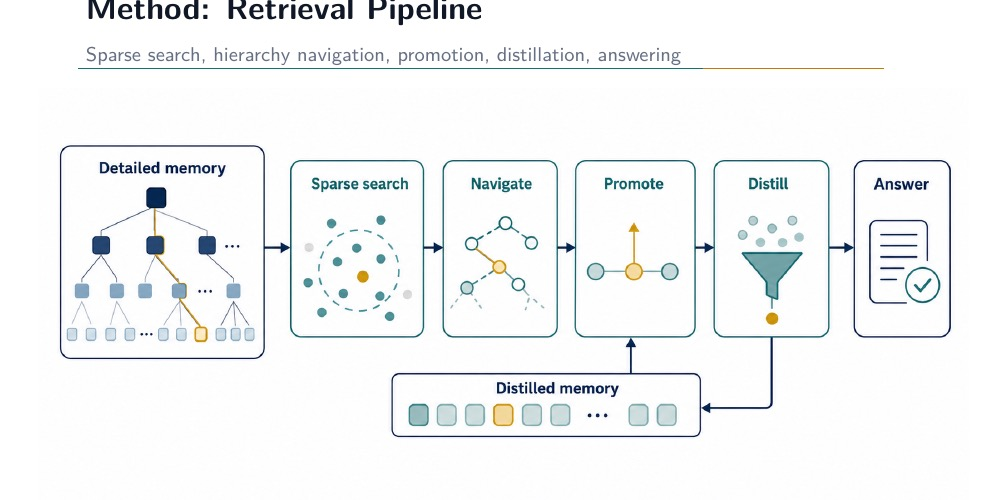
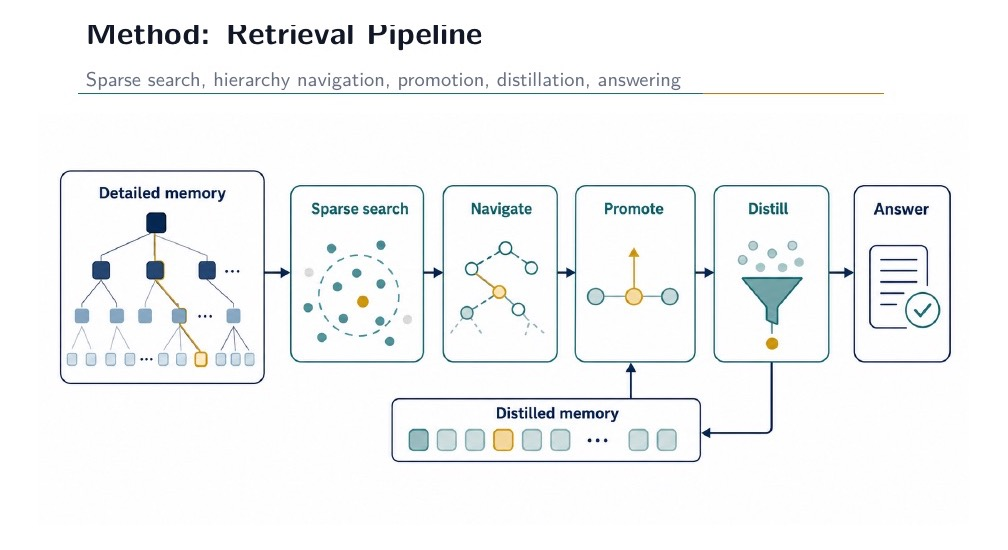
Generalize API configuration and fix README hero image

diff --git a/memloop/core/api_adapter.py b/memloop/core/api_adapter.py
@@ -2,8 +2,9 @@
 Multi-model API adapter for MemLoop.
 
 Provides a single `call(alias, messages, max_tokens, temperature)` interface
-across six provider aliases:
+across the default OpenAI-compatible gateway and optional provider aliases:
 
+    general  -> OpenAI-compatible chat endpoint from MEMLOOP_API_* env vars
     mini      -> Azure OpenAI gpt-4o-mini
     standard  -> Azure OpenAI gpt-4o
     complex   -> AWS Bedrock claude-opus-4-8 (us.anthropic.claude-opus-4-8)
@@ -139,7 +140,7 @@ def estimate_cost(model: str, input_tokens: int, output_tokens: int) -> float:
 @dataclass(frozen=True)
 class AliasConfig:
     alias: str
-    provider: str  # "azure" | "bedrock" | "bedrock_responses"
+    provider: str  # "openai_compatible" | "azure" | "bedrock" | "bedrock_responses"
     model: str     # model id (azure deployment name OR bedrock model id)
     # Optional flags for provider-specific quirks.
     # chat_param_quirk values:
@@ -161,6 +162,9 @@ def _require_env(name: str) -> str:
 
 def get_alias_config(alias: str) -> AliasConfig:
     """Resolve provider + model id from env. Does NOT return any secret."""
+    if alias in ("general", "default"):
+        model_id = os.environ.get("MEMLOOP_API_MODEL", "model")
+        return AliasConfig(alias="general", provider="openai_compatible", model=model_id)
     if alias == "mini":
         deployment = _require_env("AZURE_OPENAI_MINI")
         return AliasConfig(alias="mini", provider="azure", model=deployment)
@@ -213,7 +217,8 @@ def get_alias_config(alias: str) -> AliasConfig:
         )
     raise ValueError(
         f"Unknown alias: {alias!r}. Expected one of: "
-        "mini, standard, complex, gpt_large, gpt_5_4, gpt_5_4_mini, gpt_5_5, gpt_5_4_azure"
+        "general, mini, standard, complex, gpt_large, gpt_5_4, "
+        "gpt_5_4_mini, gpt_5_5, gpt_5_4_azure"
     )
 
 
@@ -235,6 +240,42 @@ def _http_post(
 # ---------------------------------------------------------------------------
 # Provider-specific request builders + parsers.
 # ---------------------------------------------------------------------------
+
+
+def _call_openai_compatible(
+    cfg: AliasConfig,
+    messages: List[Dict[str, str]],
+    max_tokens: int,
+    temperature: float,
+    timeout: float,
+) -> Dict[str, Any]:
+    """Call a generic OpenAI-compatible chat completions endpoint."""
+    base_url = _require_env("MEMLOOP_API_BASE_URL").rstrip("/")
+    api_key = _require_env("MEMLOOP_API_KEY")
+    model = os.environ.get("MEMLOOP_API_MODEL", cfg.model)
+    url = f"{base_url}/chat/completions"
+    headers = {
+        "Content-Type": "application/json",
+        "Accept": "application/json",
+        "Authorization": f"Bearer {api_key}",
+    }
+    body: Dict[str, Any] = {
+        "model": model,
+        "messages": messages,
+        "max_tokens": max_tokens,
+        "temperature": temperature,
+    }
+    raw = _http_post(url, headers, body, timeout=timeout)
+    choices = raw.get("choices") or []
+    if not choices:
+        raise RuntimeError("OpenAI-compatible response missing 'choices'")
+    text = choices[0].get("message", {}).get("content", "") or ""
+    usage = raw.get("usage") or {}
+    return {
+        "text": text,
+        "input_tokens": int(usage.get("prompt_tokens", 0)),
+        "output_tokens": int(usage.get("completion_tokens", 0)),
+    }
 
 
 def _call_azure(
@@ -585,7 +626,11 @@ def call(
     for attempt in range(1, max_retries + 1):
         t0 = time.time()
         try:
-            if cfg.provider == "azure":
+            if cfg.provider == "openai_compatible":
+                inner = _call_openai_compatible(
+                    cfg, messages, max_tokens, temperature, timeout
+                )
+            elif cfg.provider == "azure":
                 inner = _call_azure(cfg, messages, max_tokens, temperature, timeout)
             elif cfg.provider == "bedrock":
                 if cfg.alias == "gpt_large":
@@ -676,6 +721,8 @@ def call(
 # provider + model). We exclude them from the leak scan.
 _SECRET_ENV_KEYS = (
     "AZURE_OPENAI_KEY",
+    "MEMLOOP_API_KEY",
+    "MEMLOOP_EMBED_API_KEY",
     "BEDROCK_API_KEY",
     "BEDROCK_MANTLE_API_KEY",
     "OPENAI_API_KEY",
@@ -703,50 +750,22 @@ load_env()
 
 
 if __name__ == "__main__":
-    # Smoke test for the gpt_large alias (Bedrock Converse, openai.gpt-oss-120b-1:0).
-    # Wrapped so missing env vars / network errors do not break other aliases'
-    # independent smoke runs (each alias is self-contained).
-    try:
-        res = call(
-            "gpt_large",
-            [{"role": "user", "content": "Reply with exactly: TEST_PASSED"}],
-            max_tokens=100,
-            temperature=0.0,
-        )
-        assert "TEST_PASSED" in res["text"], f"got: {res['text']!r}"
-        print(
-            f"gpt_large alias works: text={res['text'][:80]!r}, "
-            f"latency={res['latency_ms']:.0f}ms, "
-            f"in={res['usage']['input_tokens']} out={res['usage']['output_tokens']}"
-        )
-    except Exception as e:
-        print(f"gpt_large smoke skipped: {e}")
-
-    # Smoke test for gpt_5_4 (Bedrock Mantle /responses, openai.gpt-5.4).
-    res = call(
-        "gpt_5_4",
-        [{"role": "user", "content": "Reply with exactly: TEST_GPT54"}],
-        max_tokens=100,
-        temperature=0.0,
-    )
-    assert "TEST_GPT54" in res["text"], f"got: {res['text']!r}"
-    print(
-        f"gpt_5_4 alias works: text={res['text'][:80]!r}, "
-        f"latency={res['latency_ms']:.0f}ms "
-        f"in={res['usage']['input_tokens']} out={res['usage']['output_tokens']}"
-    )
-
-    # Smoke test for gpt_5_5 (reasoning model). Larger token budget so the
-    # model has room to emit reasoning tokens AND visible output.
-    res = call(
-        "gpt_5_5",
-        [{"role": "user", "content": "Reply with exactly: TEST_GPT55"}],
-        max_tokens=200,
-        temperature=0.0,
-    )
-    assert "TEST_GPT55" in res["text"], f"got: {res['text']!r}"
-    print(
-        f"gpt_5_5 alias works: text={res['text'][:80]!r}, "
-        f"latency={res['latency_ms']:.0f}ms "
-        f"in={res['usage']['input_tokens']} out={res['usage']['output_tokens']}"
-    )
+    if not os.environ.get("MEMLOOP_API_BASE_URL") or not os.environ.get("MEMLOOP_API_KEY"):
+        print("general smoke skipped: set MEMLOOP_API_BASE_URL and MEMLOOP_API_KEY")
+    else:
+        try:
+            res = call(
+                "general",
+                [{"role": "user", "content": "Reply with exactly: TEST_GENERAL"}],
+                max_tokens=100,
+                temperature=0.0,
+                max_retries=1,
+            )
+            assert "TEST_GENERAL" in res["text"], f"got: {res['text']!r}"
+            print(
+                f"general alias works: text={res['text'][:80]!r}, "
+                f"latency={res['latency_ms']:.0f}ms, "
+                f"in={res['usage']['input_tokens']} out={res['usage']['output_tokens']}"
+            )
+        except Exception as e:
+            print(f"general smoke skipped: {e}")

diff --git a/memloop/eval/evaluate_v5.py b/memloop/eval/evaluate_v5.py
@@ -10,7 +10,7 @@ Per-query metrics:
   recall    = |cited & expected| / max(1, |expected|)
   f1        = 2 P R / (P + R)
 
-LLM score (0..1): gpt_5_4_mini judges the answer 0..5 vs the reference;
+LLM score (0..1): the configured `general` alias judges the answer 0..5 vs the reference;
                   if reference is empty, score based on factuality vs query alone.
 
 Aggregate per (method, tier):
@@ -42,8 +42,8 @@ if REPO_ROOT not in sys.path:
 
 from memloop.core.api_adapter import APIError, call as api_call  # noqa: E402
 
-JUDGE_PRICE_PER_M = {"input": 0.00, "output": 0.00}   # gpt_5_4_mini (cost tracked elsewhere)
-JUDGE_ALIAS = "gpt_5_4_mini"   # 2026-07-13: azure mini throttled, use Bedrock full for judge
+JUDGE_PRICE_PER_M = {"input": 0.00, "output": 0.00}
+JUDGE_ALIAS = "general"
 
 
 JUDGE_SYSTEM = """You are a lenient evaluator scoring whether a model's answer is broadly aligned with the reference.

diff --git a/memloop/runners/run_stream_v5.py b/memloop/runners/run_stream_v5.py
@@ -1792,9 +1792,9 @@ def main() -> int:
     ap.add_argument("--queries", required=True)
     ap.add_argument("--query_order_seed", type=int, default=20260608)
     ap.add_argument("--seed", type=int, default=20260608)
-    ap.add_argument("--alias_answer", default="gpt_5_4")
-    ap.add_argument("--alias_navigator", default="gpt_5_4")
-    ap.add_argument("--alias_low", default="gpt_5_4_mini")
+    ap.add_argument("--alias_answer", default="general")
+    ap.add_argument("--alias_navigator", default="general")
+    ap.add_argument("--alias_low", default="general")
     ap.add_argument("--max_steps", type=int, default=12)
     ap.add_argument("--top_k_distilled", type=int, default=8)
     ap.add_argument("--max_detailed_load", type=int, default=6)

diff --git a/memloop/runners/run_stream_v5_cite_all.py b/memloop/runners/run_stream_v5_cite_all.py
@@ -1329,9 +1329,9 @@ def main() -> int:
     ap.add_argument("--queries", required=True)
     ap.add_argument("--query_order_seed", type=int, default=20260608)
     ap.add_argument("--seed", type=int, default=20260608)
-    ap.add_argument("--alias_answer", default="gpt_5_4")
-    ap.add_argument("--alias_navigator", default="gpt_5_4")
-    ap.add_argument("--alias_low", default="gpt_5_4_mini")
+    ap.add_argument("--alias_answer", default="general")
+    ap.add_argument("--alias_navigator", default="general")
+    ap.add_argument("--alias_low", default="general")
     ap.add_argument("--max_steps", type=int, default=12)
     ap.add_argument("--top_k_distilled", type=int, default=8)
     ap.add_argument("--max_detailed_load", type=int, default=6)

diff --git a/memloop/eval/fix5_extract_citations.py b/memloop/eval/fix5_extract_citations.py
@@ -78,7 +78,7 @@ def extract_one(rec, doc_lookup, cost_tracker):
     messages = [{'role':'system','content':SYSTEM},{'role':'user','content':user}]
     for attempt in range(3):
         try:
-            resp = api_call('gpt_5_4', messages, max_tokens=300, temperature=0.0, timeout=90.0, max_retries=2)
+            resp = api_call("general", messages, max_tokens=300, temperature=0.0, timeout=90.0, max_retries=2)
             text = resp.get('text','').strip()
             usage = resp.get('usage', {})
             in_t = usage.get('input_tokens', 0)

diff --git a/docs/configuration.md b/docs/configuration.md
@@ -16,15 +16,21 @@ directory:
 export MEMLOOP_ENV_FILE=/secure/path/memloop.env
 ```
 
-## Provider Settings
+## API Settings
 
 | Variable | Required for | Notes |
 | --- | --- | --- |
-| `AZURE_OPENAI_ENDPOINT` | Azure LLM calls | Endpoint URL for Azure deployments. |
-| `AZURE_LLM_API_KEY` | Azure LLM calls | Preferred key name for MemLoop. |
-| `AZURE_OPENAI_KEY` | Azure LLM calls | Fallback key name. |
-| `AWS_BEDROCK_API_KEY` | Bedrock response calls | Used by Bedrock-compatible aliases. |
-| `BEDROCK_MODEL_GPT54` | Bedrock response calls | Optional model override. |
+| `MEMLOOP_API_BASE_URL` | Model-backed answering and judging | OpenAI-compatible chat-completions base URL. |
+| `MEMLOOP_API_KEY` | Model-backed answering and judging | API key for your model gateway. |
+| `MEMLOOP_API_MODEL` | Model-backed answering and judging | Chat model name or deployment alias. |
+| `MEMLOOP_EMBED_API_BASE_URL` | API-backed embeddings | Optional OpenAI-compatible embedding endpoint. |
+| `MEMLOOP_EMBED_API_KEY` | API-backed embeddings | Optional embedding API key. |
+| `MEMLOOP_EMBED_API_MODEL` | API-backed embeddings | Optional embedding model or deployment alias. |
+| `MEMLOOP_EMBED_DIM` | API-backed embeddings | Optional embedding dimension override. |
+
+MemLoop's default public configuration is provider-neutral. Advanced deployments
+can still add project-specific provider aliases in `memloop.core.api_adapter`
+when they need a custom gateway, tenancy layer, or hosted model runtime.
 
 ## Retrieval Settings
 

diff --git a/README.md b/README.md
@@ -166,10 +166,13 @@ cp .env.example .env
 | --- | --- |
 | `MEMLOOP_REPO_ROOT` | Project directory used for `.env`, manifests, results, and caches. |
 | `MEMLOOP_ENV_FILE` | Optional explicit path to an environment file. |
-| `AZURE_OPENAI_ENDPOINT` | Azure endpoint for OpenAI-compatible deployments. |
-| `AZURE_LLM_API_KEY` or `AZURE_OPENAI_KEY` | Key for Azure-backed LLM calls. |
-| `AWS_BEDROCK_API_KEY` | Optional key for Bedrock-compatible response calls. |
+| `MEMLOOP_API_BASE_URL` | OpenAI-compatible chat-completions base URL. |
+| `MEMLOOP_API_KEY` | API key for the configured model gateway. |
+| `MEMLOOP_API_MODEL` | Chat model name or deployment alias. |
 | `MEMLOOP_EMBED_BACKEND` | `minilm` for local embeddings, or a configured API-backed backend. |
+| `MEMLOOP_EMBED_API_BASE_URL` | Optional OpenAI-compatible embedding endpoint. |
+| `MEMLOOP_EMBED_API_KEY` | Optional embedding API key. |
+| `MEMLOOP_EMBED_API_MODEL` | Optional embedding model or deployment alias. |
 | `MEMLOOP_L0_RETRIEVAL` | `bm25` by default; dense reranking can be enabled separately. |
 | `MEMLOOP_SKIP_L0_EMBED` | Set to `1` to avoid embedding every L0 node. |
 | `MEMLOOP_INDEX_CACHE_DIR` | Optional cache directory for retrieval indexes. |